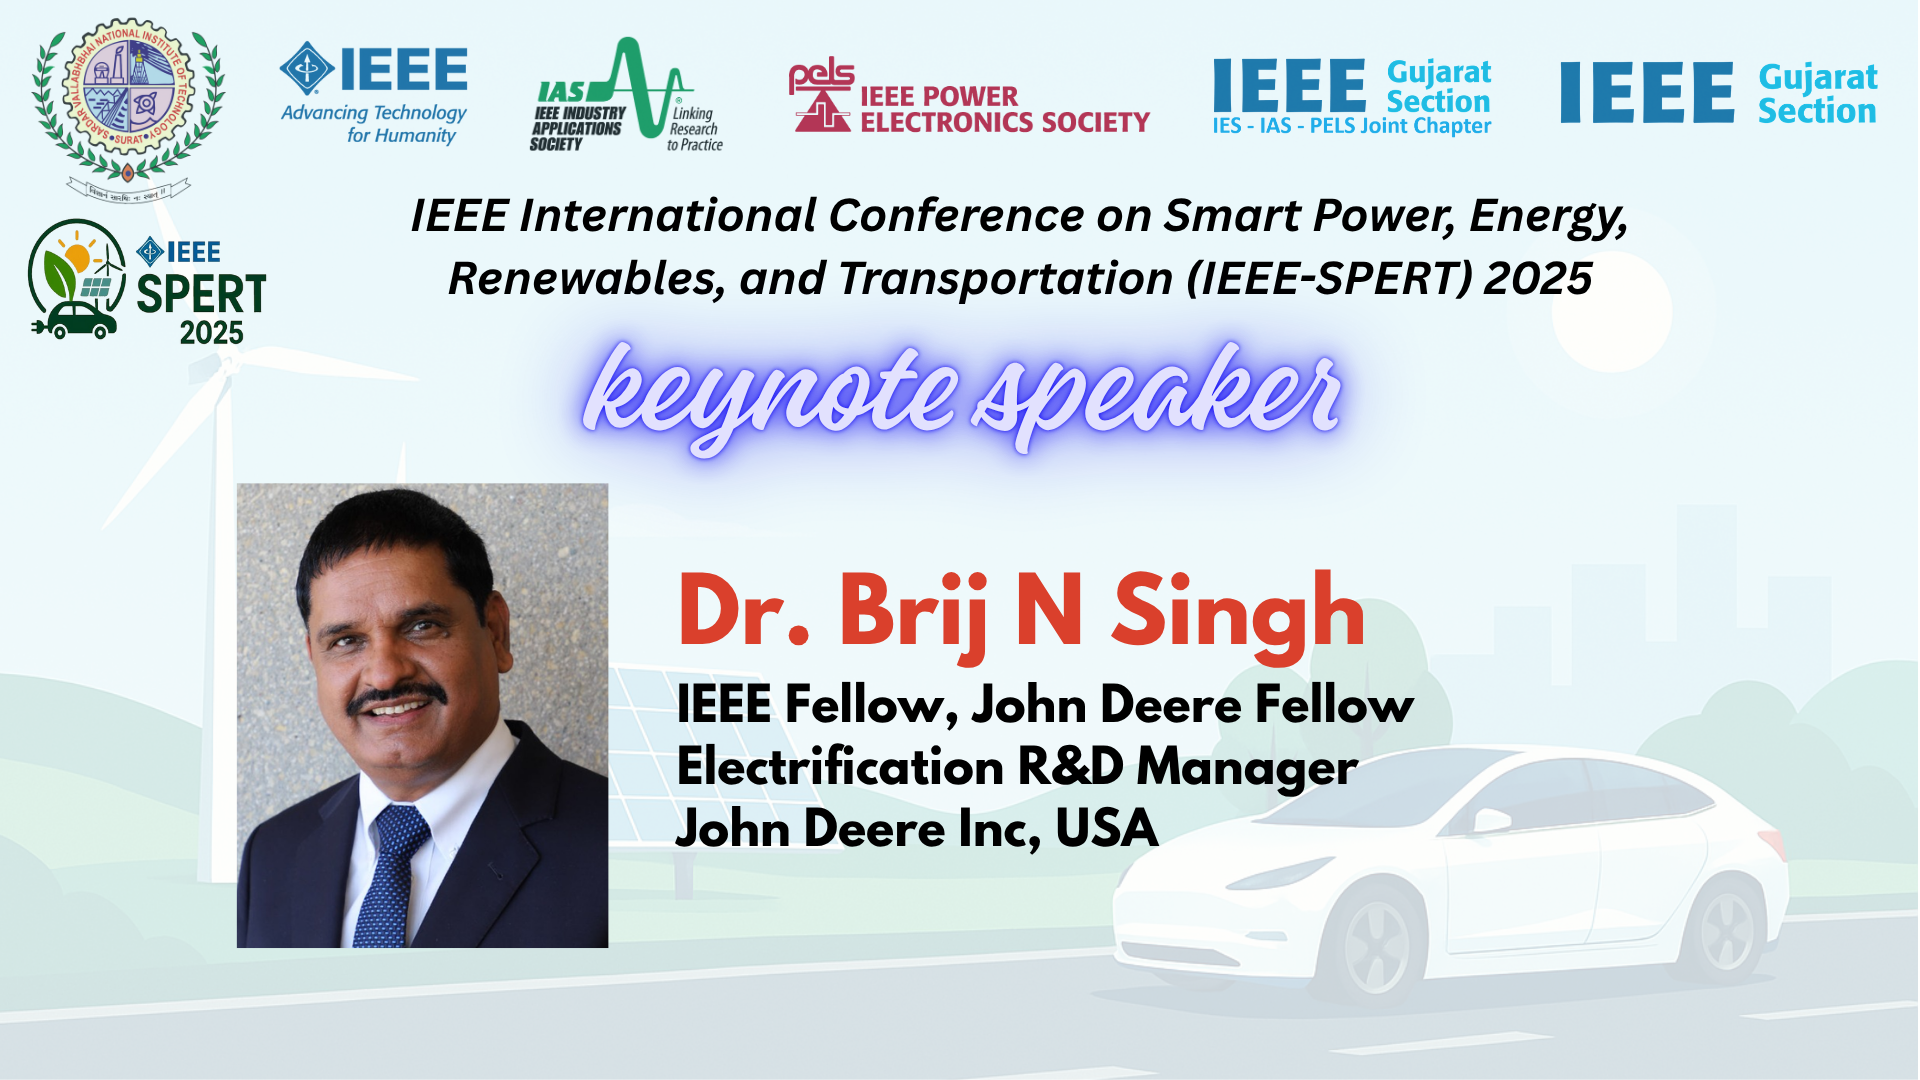
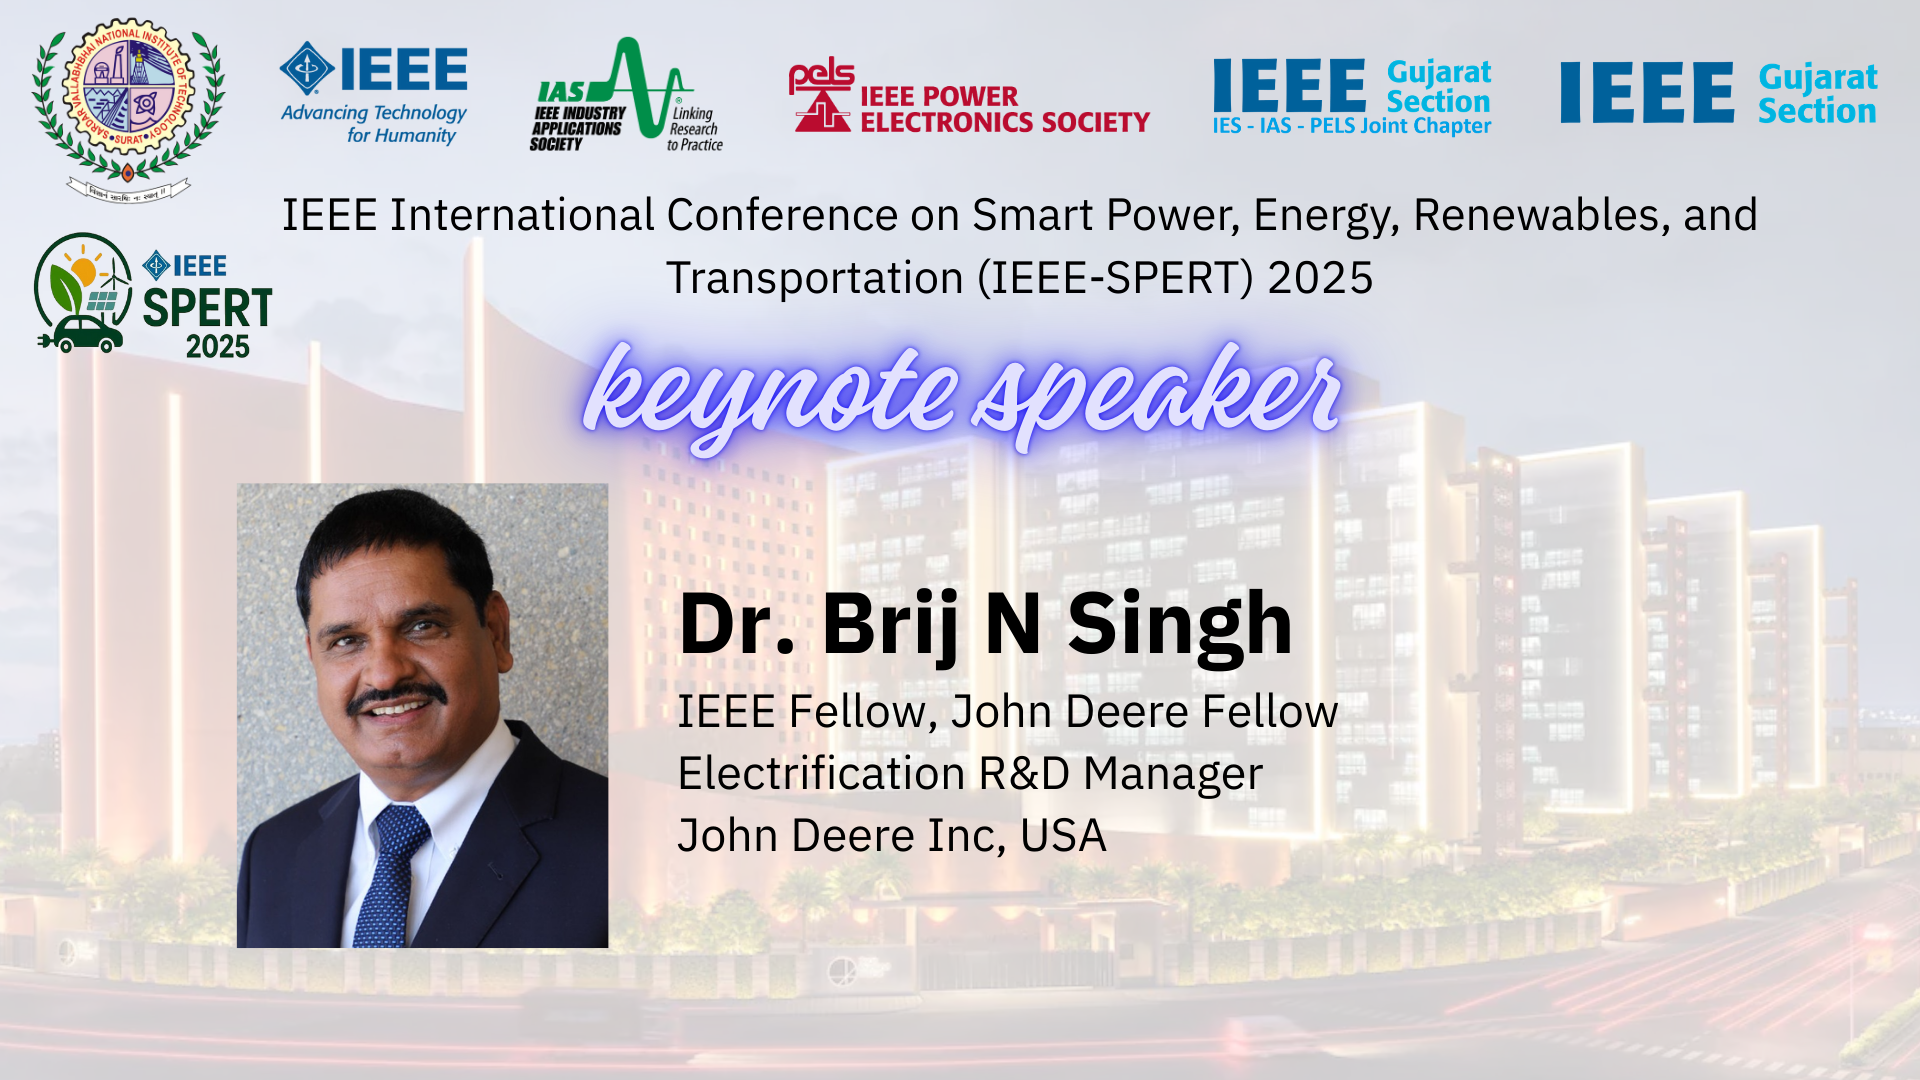
Updated HomePage

diff --git a/components/image-gallery.tsx b/components/image-gallery.tsx
@@ -8,118 +8,169 @@ const images = [
   "/images/2.png",
   "/images/3.png",
   "/images/4.png",
+  "/images/5.png",
   "/images/6.png",
   "/images/7.png",
-  "/images/5.png",
-  
+  "/images/8.png",
+  "/images/9.png",
 ]
 
 export function ImageGallery() {
   const [currentIndex, setCurrentIndex] = useState(0)
+  const totalSlides = images.length
 
+  // Auto-slide through images
   useEffect(() => {
     const timer = setInterval(() => {
-      setCurrentIndex((prevIndex) => (prevIndex + 1) % images.length)
+      setCurrentIndex((prev) => (prev + 1) % totalSlides)
     }, 5000)
     return () => clearInterval(timer)
-  }, [])
+  }, [totalSlides])
+
+  const handleNext = () => {
+    setCurrentIndex((prev) => (prev + 1) % totalSlides)
+  }
+
+  const handlePrev = () => {
+    setCurrentIndex((prev) =>
+      prev === 0 ? totalSlides - 1 : prev - 1
+    )
+  }
+
+  const handleDotClick = (index: number) => {
+    setCurrentIndex(index)
+  }
 
   return (
-    <div className="flex flex-col lg:flex-row justify-center items-stretch w-full py-4 bg-gradient-to-b from-[#b3e5fc] to-[#c8e6c9] gap-4 px-4">
+    <div className="relative w-full min-h-screen flex flex-col items-center justify-start py-12">
 
-      {/* Announcements Section */}
-      <div className="lg:w-1/5 w-full bg-white/60 rounded-xl shadow-lg p-4 backdrop-blur-md flex flex-col">
-        <h2 className="text-xl font-semibold mb-2 text-center">Announcements</h2>
-        <ul className="text-sm space-y-2 overflow-auto">
-          <li>📢 Early Bird Registration Deadline: </li>
-          <li>Oct 31, 2025</li>          
-          <li>📅 Camera Ready paper submission Deadline: Oct 15,2025</li>
-          <li>🎤 Keynote speakers announced </li>
-        </ul>
+      {/* 🔹 FULLSCREEN BACKGROUND VIDEO */}
+      <video
+        autoPlay
+        loop
+        muted
+        playsInline
+        className="fixed top-0 left-0 w-full h-full object-cover -z-10"
+        src="/images/video.mp4"
+      />
+      
+      {/* 🔹 Optional dark overlay for readability */}
+      <div className="fixed top-0 left-0 w-full h-full bg-black/40 backdrop-blur-[2px] -z-10"></div>
+
+      {/* 🔹 CONTENT CONTAINER */}
+      <div className="w-[100%] max-w-6xl flex flex-col gap-6 z-10">
+
+        {/* IMAGE SLIDESHOW BLOCK */}
+        <div className="relative aspect-video overflow-hidden rounded-[32px] shadow-[0_18px_45px_rgba(0,0,0,0.28)]
+                        bg-white/15 border border-white/30 backdrop-blur-2xl group">
+
+          {/* Slide Container */}
+          <div
+            className="flex h-full transition-transform duration-700 ease-[cubic-bezier(0.22,0.61,0.36,1)]"
+            style={{ transform: `translateX(-${currentIndex * 100}%)` }}
+          >
+            {images.map((src, index) => (
+              <div
+                key={index}
+                className="relative w-full h-full flex-shrink-0 bg-black/60"
+              >
+                <Image
+                  src={src}
+                  alt={`Slide ${index + 1}`}
+                  fill
+                  className="object-contain"
+                  priority={index === 0}
+                />
+              </div>
+            ))}
+          </div>
+
+          {/* Left/Right buttons (show on hover) */}
+          <button
+            onClick={handlePrev}
+            className="absolute left-3 top-1/2 -translate-y-1/2 opacity-0 group-hover:opacity-100 
+                       transition-opacity duration-300 bg-black/30 hover:bg-black/50 
+                       text-white rounded-full px-3 py-2 text-2xl shadow-md backdrop-blur-md"
+          >
+            ‹
+          </button>
+          <button
+            onClick={handleNext}
+            className="absolute right-3 top-1/2 -translate-y-1/2 opacity-0 group-hover:opacity-100 
+                       transition-opacity duration-300 bg-black/30 hover:bg-black/50 
+                       text-white rounded-full px-3 py-2 text-2xl shadow-md backdrop-blur-md"
+          >
+            ›
+          </button>
+        </div>
+
+        {/* Progress Dots */}
+        <div className="flex justify-center gap-2">
+          {images.map((_, index) => {
+            const isActive = index === currentIndex
+            return (
+              <button
+                key={index}
+                onClick={() => handleDotClick(index)}
+                className={`h-2.5 rounded-full transition-all duration-300 border border-white/80 backdrop-blur-md
+                  ${isActive ? "w-6 bg-white" : "w-2.5 bg-white/40 hover:bg-white/70"}
+                `}
+              />
+            )
+          })}
+        </div>
+
+        {/* BOTTOM REGISTRATION LINKS SECTION */}
+        <div className="bg-white/75 rounded-3xl shadow-[0_12px_35px_rgba(0,0,0,0.15)] border border-white/60 backdrop-blur-2xl px-6 py-5">
+
+          <h2 className="text-xl font-semibold mb-3 text-center text-slate-800 tracking-tight">
+            Registration & Accommodation
+          </h2>
+
+          <ul className="text-sm space-y-3 text-slate-800">
+
+            <li className="flex items-start gap-2">
+              <span className="bg-emerald-600 text-white text-[10px] px-2 py-[2px] rounded-full font-semibold mt-[3px]">
+                NEW
+              </span>
+              <a
+                href="https://forms.gle/G7zt3YeGx2FEGKv89"
+                target="_blank"
+                rel="noopener noreferrer"
+                className="underline text-emerald-800 hover:text-emerald-900"
+              >
+                All authors must fill the Google Form to complete registration
+              </a>
+            </li>
+
+            <li className="flex items-start gap-2">
+              <span className="bg-emerald-600 text-white text-[10px] px-2 py-[2px] rounded-full font-semibold mt-[3px]">
+                NEW
+              </span>
+              <a
+                href="/travel/hotel-booking"
+                className="underline text-emerald-800 hover:text-emerald-900"
+              >
+                Click here for Guest House and Hotel booking details
+              </a>
+            </li>
+
+            <li className="flex items-start gap-2">
+              <span className="bg-emerald-600 text-white text-[10px] px-2 py-[2px] rounded-full font-semibold mt-[3px]">
+                NEW
+              </span>
+              <a
+                href="https://forms.gle/rgjdrgnGHGNtX6G19"
+                target="_blank"
+                rel="noopener noreferrer"
+                className="underline text-emerald-800 hover:text-emerald-900"
+              >
+                Pay the attendee fee and click here to fill the registration form
+              </a>
+            </li>
+          </ul>
+        </div>
       </div>
-
-      {/* Image Gallery */}
-      <div className="relative aspect-video lg:w-3/5 w-full max-w-[1600px] overflow-hidden rounded-xl shadow-xl">
-        {images.map((src, index) => (
-          <Image
-            key={index}
-            src={src}
-            alt={`Conference image ${index + 1}`}
-            fill
-            className={`object-contain transition-opacity duration-1000 ease-in-out ${
-              index === currentIndex ? "opacity-100" : "opacity-0"
-            }`}
-            priority={index === 0}
-          />
-        ))}
-      </div>
-
-      {/* Updates Section */}
-      <div className="lg:w-1/5 w-full bg-white/60 rounded-xl shadow-lg p-4 backdrop-blur-md flex flex-col">
-  <h2 className="text-xl font-semibold mb-2 text-center">Author Registration</h2>
-  <ul className="text-sm space-y-3 overflow-auto">
-
-    <li className="flex items-start gap-2">
-      <span className="bg-green-600 text-white text-[10px] px-2 py-[2px] rounded-full font-semibold mt-[3px]">
-        NEW
-      </span>
-      <a
-        href="https://forms.gle/G7zt3YeGx2FEGKv89"
-        target="_blank"
-        rel="noopener noreferrer"
-        className="underline text-blue-700 hover:text-blue-900"
-      >
-        All the authors are requested to fill the Google Form to complete the registration process
-      </a>
-    </li>
-
-<h2 className="text-xl font-semibold mb-2 text-center">Accomodation details</h2>
-    <li className="flex items-start gap-2">
-      <span className="bg-green-600 text-white text-[10px] px-2 py-[2px] rounded-full font-semibold mt-[3px]">
-        NEW
-      </span>
-      <a
-        href="/travel/hotel-booking"
-        className="underline text-blue-700 hover:text-blue-900"
-      >
-        Click here for the details related to Guest House and Hotel bookings
-      </a>
-    </li>
-
-<h3 className="text-xl font-semibold mb-2 text-center">Attendee Registraion</h3>
-    <li className="flex items-start gap-2">
-      <span className="bg-green-600 text-white text-[10px] px-2 py-[2px] rounded-full font-semibold mt-[3px]">
-        NEW
-      </span>
-      <a
-        href="https://forms.gle/rgjdrgnGHGNtX6G19"
-        target="_blank"
-        rel="noopener noreferrer"
-        className="underline text-blue-700 hover:text-blue-900"
-      >
-        Please pay the registation fee and click here to fill the attendee registration form
-      </a>
-    </li>
-
-    {/* 
-    <li className="flex items-start gap-2">
-      <span className="bg-yellow-500 text-white text-[10px] px-2 py-[2px] rounded-full font-semibold mt-[3px]">
-      INFO
-      </span>
-      <span>🎓 Workshops and tutorials planned</span>
-    </li>
-
-    <li className="flex items-start gap-2">
-      <span className="bg-yellow-500 text-white text-[10px] px-2 py-[2px] rounded-full font-semibold mt-[3px]">
-      INFO
-      </span>
-      <span>📝 Schedule coming soon</span>
-    </li>
-    */}
-
-  </ul>
-</div>
-
     </div>
   )
 }

diff --git a/app/page.tsx b/app/page.tsx
@@ -125,6 +125,7 @@ export default function HomePage() {
       <main className="flex-1">
         {/* Welcome Section with Announcements */}
         {/* Announcement Marquee with Pause on Hover */}
+ {/*      
         <div
           className="w-full bg-gradient-to-r from-green-200 to-white dark:from-blue-800 dark:to-black py-4"
           style={{ animationDelay: '0s' }}
@@ -161,12 +162,11 @@ export default function HomePage() {
           </div>
         </div>
  
+ */}
         {/* Sponsor/Organizer strip matching gradient theme */}
         
-{/*
-  Full-bleed 16:9 video (public/images/video.mp4)
-  Disabled because the video is not playing after push.
 
+{/*}
   <div className="w-full py-6">
     <div className="relative -mx-4 md:-mx-6">
       <div className="w-screen max-w-none">
@@ -187,6 +187,7 @@ export default function HomePage() {
 */}
 
         <ImageGallery />
+        {/*}
         <div className="w-full bg-gradient-to-r from-green-200 to-white dark:from-blue-800 dark:to-black py-4 animate-pulse" style={{ animationDelay: '0s' }}>
           <div className="container mx-auto">
             <div className="text-xl font-semibold text-gray-800 dark:text-gray-200 overflow-hidden whitespace-nowrap">
@@ -196,14 +197,17 @@ export default function HomePage() {
             </div>
           </div>
         </div>
-        <section className="w-full py-4 md:py-4 lg:py-4 bg-gradient-to-r from-green-200 to-white dark:from-blue-800 dark:to-black">
+
+        */}
+      
+        <section className="w-full py-4 md:py-4 lg:py-4 bg-black/40 backdrop-blur-[2px] -z-10">
           <div className="container px-4 md:px-6">
             <div className="grid gap-8 md:grid-cols-2">
               <div>
-                <h2 className="text-3xl font-bold tracking-tighter sm:text-4xl md:text-5xl lg:text-6xl/none mb-4">
+                <h2 className="text-3xl text-white font-bold tracking-tighter sm:text-4xl md:text-5xl lg:text-6xl/none mb-4">
                   Welcome to IEEE-SPERT 2025
                 </h2>
-                <p className="max-w-[700px] text-gray-500 md:text-xl dark:text-gray-400 mb-8 text-justify">
+                <p className="max-w-[700px] text-white md:text-xl dark:text-gray-400 mb-8 text-justify">
                   The IEEE International Conference on Smart Power, Energy, Renewables, and Transportation (IEEE-SPERT) aims to bring together experts and researchers to discuss advancements in these critical fields. This conference will explore innovative solutions and technologies that drive the future of energy and transportation, fostering collaboration and knowledge sharing among participants.
                 </p>
                 <div className="flex flex-col gap-4 min-[400px]:flex-row">
@@ -314,7 +318,7 @@ export default function HomePage() {
 
         {/* Removed Upcoming Speakers Section as per request */}
 
-<section className="w-full py-4 md:py-8 lg:py-12 bg-gradient-to-r from-green-200 to-white dark:from-blue-800 dark:to-black">
+<section className="w-full py-4 md:py-4 lg:py-4 bg-black/40 backdrop-blur-[2px] -z-10">
   <div className="container px-4 md:px-6">
     <div className="grid grid-cols-1 gap-4">
       
@@ -361,7 +365,7 @@ export default function HomePage() {
 
 
         {/* Countdown Section */}
-        <section className="w-full py-4 md:py-8 lg:py-12 bg-gradient-to-r from-green-200 to-white dark:from-blue-800 dark:to-black">
+        <section className="w-full py-4 md:py-4 lg:py-4 bg-black/40 backdrop-blur-[2px] -z-10">
           <div className="container px-4 md:px-6">
             <h2 className="text-2xl font-bold tracking-tighter sm:text-3xl md:text-4xl mb-8 text-center">
               Conference Starts In
